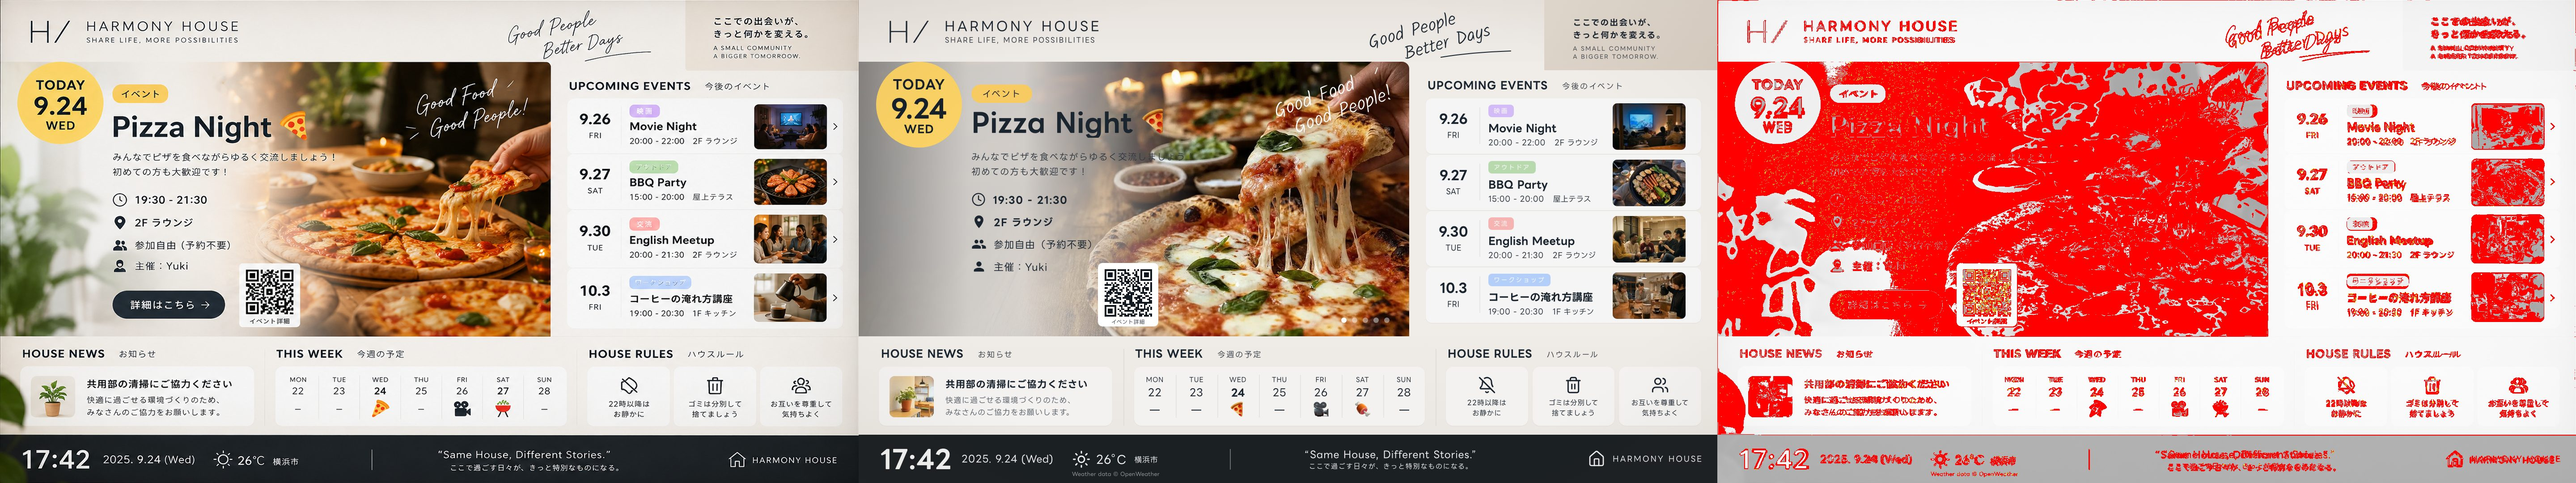
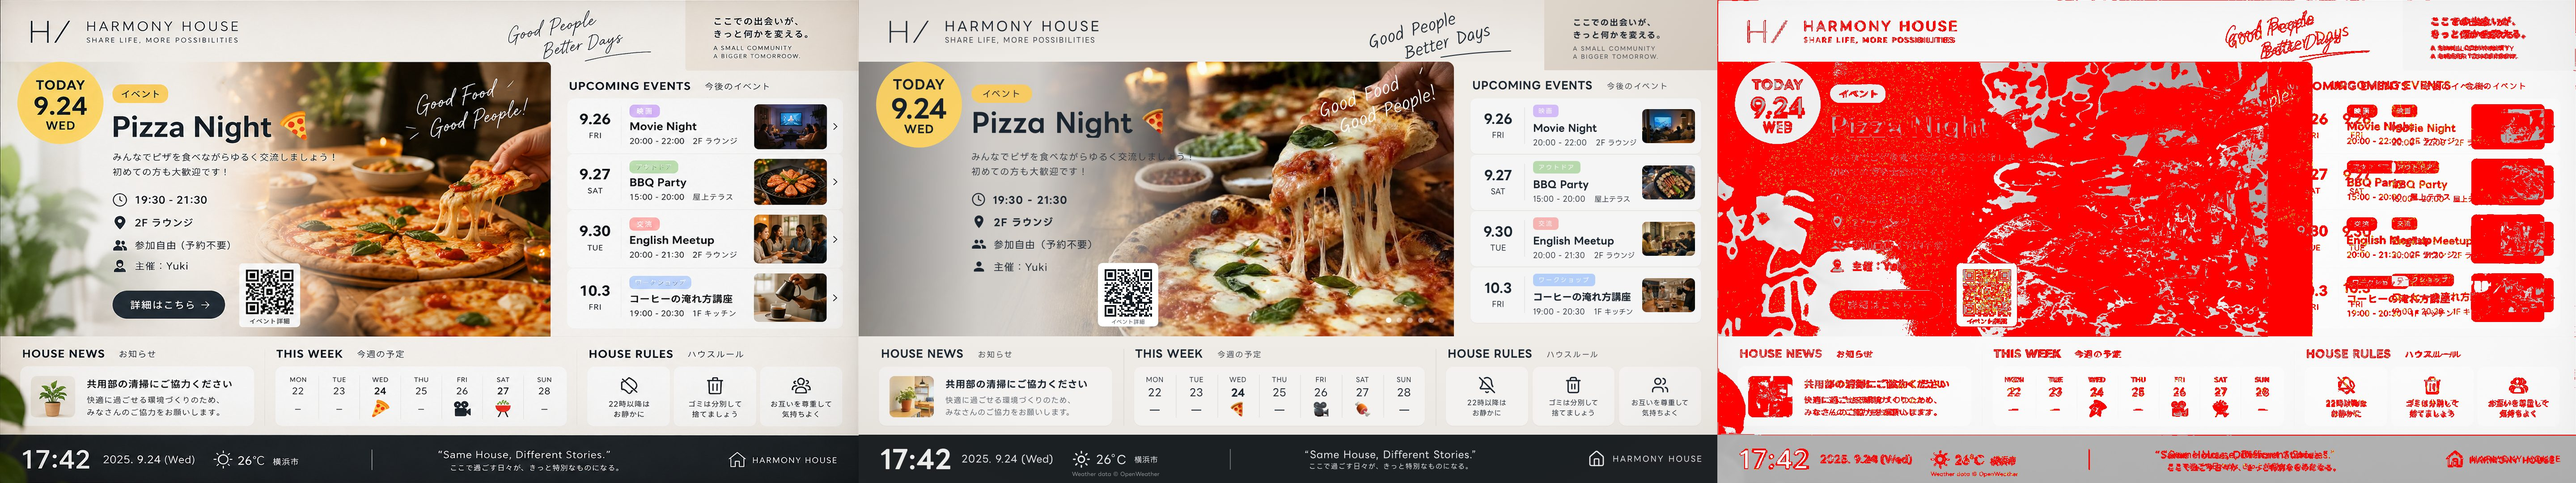
feat(signage): 大きな枠（スライドショー）の占有率を上げる、縦型の説明文を 5 行まで
- 縦型: Upcoming を 3 行にし、大きな枠を 646→774px に（面積 約 +20%）。説明文は幅 440px・5 行まで
- 横型: Upcoming の列を 616→516px に細くし（サムネイル 118×76、時間と場所は 16px）、大きな枠を 1231→1331px に（約 +8%）
- 全イベントの詳細は大きな枠のスライドショーで流すため、Upcoming は一覧として簡潔に（ユーザー指示）
- モックとの差分率: 縦 40.55% / 横 39.97%（配置を意図的に変えた分）

Changed region(s): [[0.4062, 0.1222, 1.0, 0.7028]]

diff --git a/components/signage/signage.module.css b/components/signage/signage.module.css
@@ -302,7 +302,7 @@
   left: 36px;
   top: 284px;
   width: 1008px;
-  height: 646px;
+  height: 774px;
   border-radius: 26px;
   overflow: hidden;
   box-shadow: 0 2px 10px rgba(20, 20, 30, 0.12);
@@ -377,7 +377,7 @@
   top: 90px;
   padding-top: 40px;
   width: 560px;
-  height: 532px;
+  height: 660px;
   overflow: hidden;
   display: flex;
   flex-direction: column;
@@ -429,17 +429,18 @@
   margin-top: 4px;
 }
 
+/* 詳細はこの欄でしか見られないため、ボタンを外した分だけ広げて 5 行まで出す（幅は写真の暗い帯の中に収める） */
 .pDesc {
   margin-top: 5px;
   margin-left: 8px;
-  width: 334px;
+  width: 440px;
   font-size: 24px;
   line-height: 39px;
   letter-spacing: 0.08em;
   white-space: pre-line;
   display: -webkit-box;
   -webkit-box-orient: vertical;
-  -webkit-line-clamp: 3;
+  -webkit-line-clamp: 5;
   overflow: hidden;
 }
 
@@ -524,7 +525,7 @@
 .pQr {
   position: absolute;
   left: 801px;
-  top: 406px;
+  top: 534px;
   width: 171px;
   height: 185px;
   border-radius: 14px;
@@ -582,13 +583,15 @@
 }
 
 
+/* 2026-09-25 ユーザー指示: 大きな枠（スライドショー）の占有率を上げる。
+   縦は Upcoming を 3 行にして枠を 128px 高く、横は Upcoming の列を細くして枠を 100px 広くした */
 /* Upcoming（縦） */
 .pUpcoming {
   position: absolute;
   left: 38px;
-  top: 1009px;
+  top: 1137px;
   width: 1002px;
-  height: 526px;
+  height: 398px;
   display: flex;
   flex-direction: column;
   gap: 2px;
@@ -952,7 +955,7 @@
   position: absolute;
   left: 0;
   top: 138px;
-  width: 1231px;
+  width: 1331px;
   height: 614px;
   border-top-right-radius: 16px;
   overflow: hidden;
@@ -1158,7 +1161,7 @@
 
 .lCatch {
   position: absolute;
-  left: 922px;
+  left: 1022px;
   top: 92px;
   display: flex;
   flex-direction: column;
@@ -1194,9 +1197,9 @@
 /* Upcoming（横） */
 .lUpcoming {
   position: absolute;
-  left: 1268px;
+  left: 1368px;
   top: 220px;
-  width: 616px;
+  width: 516px;
   height: 512px;
   display: flex;
   flex-direction: column;
@@ -1250,7 +1253,7 @@
   position: absolute;
   left: 140px;
   top: 14px;
-  width: 270px;
+  width: 236px;
   display: flex;
   flex-direction: column;
   align-items: flex-start;
@@ -1271,7 +1274,7 @@
   margin-top: 8px;
   max-width: 100%;
   font-weight: 700;
-  font-size: 23.5px;
+  font-size: 22px;
   line-height: 32px;
   white-space: nowrap;
   overflow: hidden;
@@ -1280,11 +1283,14 @@
 
 .lRowMeta {
   margin-top: 5px;
-  font-size: 17px;
+  font-size: 16px;
   line-height: 24px;
   letter-spacing: 0.01em;
   color: #2c343d;
+  max-width: 100%;
   white-space: nowrap;
+  overflow: hidden;
+  text-overflow: ellipsis;
 }
 
 .lRowPlace {
@@ -1293,10 +1299,10 @@
 
 .lRowImage {
   position: absolute;
-  left: 418px;
-  top: 11px;
-  width: 163px;
-  height: 104px;
+  left: 384px;
+  top: 24px;
+  width: 118px;
+  height: 76px;
   border-radius: 10px;
   overflow: hidden;
 }

diff --git a/tests/signage/signage-screen.test.tsx b/tests/signage/signage-screen.test.tsx
@@ -131,7 +131,8 @@ describe.each(["portrait", "landscape"] as const)("SignageScreen（%s）", (orie
       orientation,
     );
     const noImage = container.querySelectorAll('[data-has-image="false"]');
-    expect(noImage.length).toBeGreaterThanOrEqual(5);
+    // 大きな枠 1 つと Upcoming の行（縦型 3 行・横型 4 行）
+    expect(noImage.length).toBeGreaterThanOrEqual(orientation === "portrait" ? 4 : 5);
     for (const el of noImage) expect(el.querySelector("img")).toBeNull();
     expect((noImage[0] as HTMLElement).style.backgroundColor).not.toBe("");
   });
@@ -222,12 +223,14 @@ describe.each(["portrait", "landscape"] as const)("SignageScreen（%s）", (orie
     expect(screen.getByTestId("main-title").textContent).toContain("Movie Night");
   });
 
-  it("Upcoming は主イベントを除いて最大 4 件", () => {
+  it("Upcoming は主イベントを除いて、横型は最大 4 件・縦型は最大 3 件", () => {
     renderScreen({}, orientation);
     const upcoming = screen.getByTestId("upcoming");
     expect(upcoming.textContent).not.toContain("Pizza Night");
     expect(upcoming.textContent).toContain("Movie Night");
-    expect(upcoming.textContent).toContain("コーヒーの淹れ方講座");
+    // 4 件目（コーヒーの淹れ方講座）は横型だけ。縦型は大きな枠を広げるため 3 行
+    if (orientation === "landscape") expect(upcoming.textContent).toContain("コーヒーの淹れ方講座");
+    else expect(upcoming.textContent).not.toContain("コーヒーの淹れ方講座");
   });
 });
 

diff --git a/components/signage/PortraitLayout.tsx b/components/signage/PortraitLayout.tsx
@@ -33,6 +33,9 @@ import styles from "./signage.module.css";
 
 type Props = { config: SignageConfig; view: SignageView; resolveMediaUrl: ResolveMediaUrl };
 
+/** 縦型の Upcoming は 3 行（大きな枠を広げるため。全イベントの詳細は大きな枠のスライドショーで流す） */
+const PORTRAIT_UPCOMING_ROWS = 3;
+
 export function PortraitLayout({ config, view, resolveMediaUrl }: Props) {
   const { house } = config;
   const footer = splitFooterCopy(house.footerCopy);
@@ -75,13 +78,13 @@ export function PortraitLayout({ config, view, resolveMediaUrl }: Props) {
       <Hero hero={view.hero} config={config} resolveMediaUrl={resolveMediaUrl} />
 
       {/* Upcoming */}
-      <div className={styles.pSectionTitle} style={{ left: 42, top: 961 }}>
+      <div className={styles.pSectionTitle} style={{ left: 42, top: 1089 }}>
         <span className={styles.pSectionEn}>{COPY.upcoming.en}</span>
         <span className={styles.pSectionJa}>{COPY.upcoming.ja}</span>
       </div>
       <div className={styles.pUpcoming} data-testid="upcoming">
         {view.upcoming.length === 0 ? <div className={styles.pEmpty}>{COPY.noUpcoming}</div> : null}
-        {view.upcoming.map((event) => (
+        {view.upcoming.slice(0, PORTRAIT_UPCOMING_ROWS).map((event) => (
           <UpcomingRow key={event.id} event={event} resolveMediaUrl={resolveMediaUrl} />
         ))}
       </div>

diff --git a/components/signage/LandscapeLayout.tsx b/components/signage/LandscapeLayout.tsx
@@ -57,7 +57,7 @@ export function LandscapeLayout({ config, view, resolveMediaUrl }: Props) {
       <Hero hero={view.hero} config={config} resolveMediaUrl={resolveMediaUrl} />
 
       {/* Upcoming */}
-      <div className={styles.lSectionTitle} style={{ left: 1272, top: 179 }}>
+      <div className={styles.lSectionTitle} style={{ left: 1372, top: 179 }}>
         <span className={styles.lSectionEn}>{COPY.upcoming.en}</span>
         <span className={styles.lSectionJa}>{COPY.upcoming.ja}</span>
       </div>
